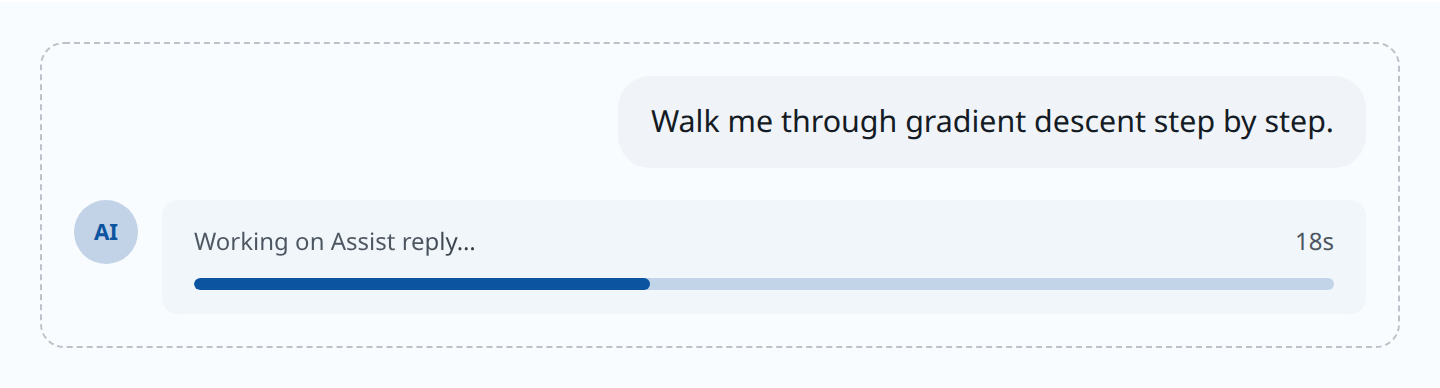
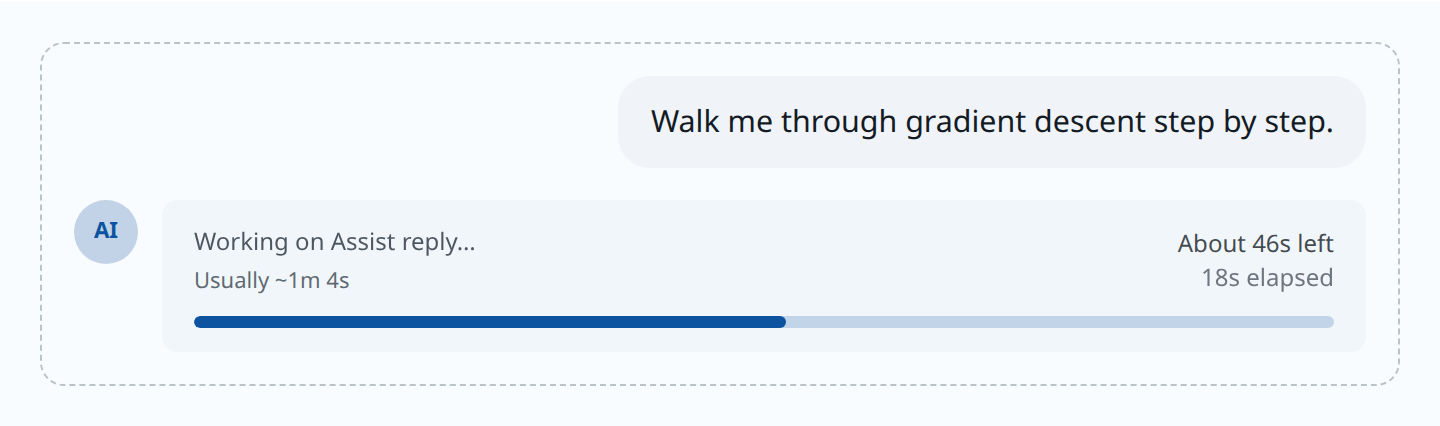
docs(ux): refresh #1171 gallery for timed progress bar
Update QA HTML/screenshots to show expected-duration fill,
“About Xs left”, and longer-than-usual states for ADHD predictability.

diff --git a/docs/ux/chat-progress-1171/qa-gallery.html b/docs/ux/chat-progress-1171/qa-gallery.html
@@ -134,6 +134,9 @@
       justify-content: space-between;
       gap: 12px;
     }
+    .status-left {
+      min-width: 0;
+    }
     .shimmer {
       font-size: 0.75rem;
       font-weight: 500;
@@ -150,11 +153,26 @@
       color: transparent;
       animation: shimmer 4s infinite linear;
     }
-    .elapsed {
+    .expected {
+      margin: 4px 0 0;
+      font-size: 11px;
+      color: color-mix(in oklab, var(--muted-foreground) 90%, transparent);
+    }
+    .timing {
       flex-shrink: 0;
       font-size: 0.75rem;
       font-variant-numeric: tabular-nums;
       color: var(--muted-foreground);
+      text-align: right;
+    }
+    .timing-primary {
+      display: block;
+      font-weight: 500;
+      color: color-mix(in oklab, var(--foreground) 80%, transparent);
+    }
+    .timing-elapsed {
+      display: block;
+      opacity: 0.8;
     }
     .progress {
       position: relative;
@@ -166,12 +184,10 @@
       background: color-mix(in oklab, var(--primary) 20%, transparent);
     }
     .progress-bar {
-      position: absolute;
-      inset-block: 0;
-      width: 40%;
+      height: 100%;
       border-radius: 999px;
       background: var(--primary);
-      animation: pulse 1.4s ease-in-out infinite;
+      transition: width 0.35s ease-out;
     }
 
     /* Compact under streaming bubble */
@@ -207,10 +223,6 @@
     @keyframes shimmer {
       to { background-position: -200% center; }
     }
-    @keyframes pulse {
-      0%, 100% { opacity: 0.55; }
-      50% { opacity: 1; }
-    }
     @keyframes spin {
       to { transform: rotate(360deg); }
     }
@@ -227,7 +239,9 @@
   <h1>#1171 — Course chat loading / progress UI</h1>
   <p class="subtitle">
     Visual QA gallery matching Core’s <code>ChatTypingIndicator</code> +
-    <code>useChatProgress</code> stages. Full bubble before tokens; compact row
+    <code>useChatProgress</code>. The bar fills against an <em>expected</em>
+    wait for the model/Assist path (“About Xs left”, “Usually ~Ys”) so ADHD
+    users can see how close they are. Full bubble before tokens; compact row
     only for tools / post-tool follow-up; streaming tokens stay primary.
   </p>
 
@@ -235,18 +249,26 @@
     <!-- Individual capture roots used by Playwright -->
     <section class="panel">
       <p class="panel-title">01 · Pre-token — Routing</p>
-      <p class="panel-desc">First ~450ms before <code>X-Routed-Model</code> arrives.</p>
+      <p class="panel-desc">First ~450ms before <code>X-Routed-Model</code> arrives. Bar starts low with remaining estimate.</p>
       <div class="capture" id="cap-routing">
         <div class="chat-frame">
           <div class="user-row"><div class="user-bubble">Explain recursion with a small example.</div></div>
-          <div class="msg" data-chat-progress-stage="routing">
+          <div class="msg" data-chat-progress-stage="routing" data-chat-progress-percent="8">
             <div class="avatar">AI</div>
             <div class="status-card">
               <div class="status-row">
-                <div class="shimmer">Routing…</div>
-                <span class="elapsed">0s</span>
+                <div class="status-left">
+                  <div class="shimmer">Routing…</div>
+                  <p class="expected">Usually ~40s</p>
+                </div>
+                <span class="timing">
+                  <span class="timing-primary">About 40s left</span>
+                  <span class="timing-elapsed">0s elapsed</span>
+                </span>
               </div>
-              <div class="progress" role="progressbar" aria-valuetext="Routing…"><div class="progress-bar"></div></div>
+              <div class="progress" role="progressbar" aria-valuenow="8" aria-valuetext="Routing…. About 40s left. 0s elapsed.">
+                <div class="progress-bar" style="width: 8%"></div>
+              </div>
             </div>
           </div>
         </div>
@@ -255,18 +277,26 @@
 
     <section class="panel">
       <p class="panel-title">02 · Pre-token — Waiting for model</p>
-      <p class="panel-desc">Slow local / large model TTFT (e.g. Qwen 32B) before first tokens.</p>
+      <p class="panel-desc">Slow local / large model TTFT (e.g. Qwen 32B). Fill tracks elapsed vs expected (~40s).</p>
       <div class="capture" id="cap-waiting">
         <div class="chat-frame">
           <div class="user-row"><div class="user-bubble">Explain recursion with a small example.</div></div>
-          <div class="msg" data-chat-progress-stage="waiting_for_model">
+          <div class="msg" data-chat-progress-stage="waiting_for_model" data-chat-progress-percent="48">
             <div class="avatar">AI</div>
             <div class="status-card">
               <div class="status-row">
-                <div class="shimmer">Waiting for model…</div>
-                <span class="elapsed">12s</span>
+                <div class="status-left">
+                  <div class="shimmer">Waiting for model…</div>
+                  <p class="expected">Usually ~40s</p>
+                </div>
+                <span class="timing">
+                  <span class="timing-primary">About 28s left</span>
+                  <span class="timing-elapsed">12s elapsed</span>
+                </span>
               </div>
-              <div class="progress" role="progressbar" aria-valuetext="Waiting for model…"><div class="progress-bar"></div></div>
+              <div class="progress" role="progressbar" aria-valuenow="48" aria-valuetext="Waiting for model…. About 28s left. 12s elapsed.">
+                <div class="progress-bar" style="width: 48%"></div>
+              </div>
             </div>
           </div>
         </div>
@@ -275,19 +305,27 @@
 
     <section class="panel">
       <p class="panel-title">03 · Pre-token — Searching course materials</p>
-      <p class="panel-desc">RAG tool in progress (<code>getInformation</code>) before any assistant text.</p>
+      <p class="panel-desc">RAG tool in progress (<code>getInformation</code>). Expected wait includes tool overhead.</p>
       <div class="capture" id="cap-searching">
         <div class="chat-frame">
           <div class="user-row"><div class="user-bubble">What did chapter 3 say about stacks?</div></div>
           <div class="tool-card"><div class="spinner"></div> Searching course materials…</div>
-          <div class="msg" data-chat-progress-stage="searching_materials">
+          <div class="msg" data-chat-progress-stage="searching_materials" data-chat-progress-percent="38">
             <div class="avatar">AI</div>
             <div class="status-card">
               <div class="status-row">
-                <div class="shimmer">Searching course materials…</div>
-                <span class="elapsed">4s</span>
+                <div class="status-left">
+                  <div class="shimmer">Searching course materials…</div>
+                  <p class="expected">Usually ~28s</p>
+                </div>
+                <span class="timing">
+                  <span class="timing-primary">About 24s left</span>
+                  <span class="timing-elapsed">4s elapsed</span>
+                </span>
               </div>
-              <div class="progress" role="progressbar" aria-valuetext="Searching course materials…"><div class="progress-bar"></div></div>
+              <div class="progress" role="progressbar" aria-valuenow="38" aria-valuetext="Searching course materials…. About 24s left. 4s elapsed.">
+                <div class="progress-bar" style="width: 38%"></div>
+              </div>
             </div>
           </div>
         </div>
@@ -296,18 +334,26 @@
 
     <section class="panel">
       <p class="panel-title">04 · Pre-token — Working on Assist reply</p>
-      <p class="panel-desc">Assist ON after 6s of silence (slow TTFT and/or oversight buffering).</p>
+      <p class="panel-desc">Assist ON (longer expected wait). Mid-fill with remaining time for ADHD predictability.</p>
       <div class="capture" id="cap-assist">
         <div class="chat-frame">
           <div class="user-row"><div class="user-bubble">Walk me through gradient descent step by step.</div></div>
-          <div class="msg" data-chat-progress-stage="preparing_assist">
+          <div class="msg" data-chat-progress-stage="preparing_assist" data-chat-progress-percent="52">
             <div class="avatar">AI</div>
             <div class="status-card">
               <div class="status-row">
-                <div class="shimmer">Working on Assist reply…</div>
-                <span class="elapsed">18s</span>
+                <div class="status-left">
+                  <div class="shimmer">Working on Assist reply…</div>
+                  <p class="expected">Usually ~1m 4s</p>
+                </div>
+                <span class="timing">
+                  <span class="timing-primary">About 46s left</span>
+                  <span class="timing-elapsed">18s elapsed</span>
+                </span>
               </div>
-              <div class="progress" role="progressbar" aria-valuetext="Working on Assist reply…"><div class="progress-bar"></div></div>
+              <div class="progress" role="progressbar" aria-valuenow="52" aria-valuetext="Working on Assist reply…. About 46s left. 18s elapsed.">
+                <div class="progress-bar" style="width: 52%"></div>
+              </div>
             </div>
           </div>
         </div>
@@ -330,7 +376,7 @@
 
     <section class="panel">
       <p class="panel-title">06 · Compact — Searching after text</p>
-      <p class="panel-desc">Multi-step: earlier tokens exist + in-progress RAG tool → compact Searching… under the bubble.</p>
+      <p class="panel-desc">Multi-step: earlier tokens + in-progress RAG → compact Searching… with remaining estimate.</p>
       <div class="capture" id="cap-compact-search">
         <div class="chat-frame">
           <div class="user-row"><div class="user-bubble">What did chapter 3 say about stacks?</div></div>
@@ -339,12 +385,17 @@
             <div class="assistant-text">Looking that up in your course materials…</div>
           </div>
           <div class="tool-card"><div class="spinner"></div> Searching course materials…</div>
-          <div class="compact" data-chat-progress-stage="searching_materials" data-chat-progress-compact="true">
+          <div class="compact" data-chat-progress-stage="searching_materials" data-chat-progress-compact="true" data-chat-progress-percent="55">
             <div class="status-row">
               <div class="shimmer">Searching course materials…</div>
-              <span class="elapsed">9s</span>
+              <span class="timing">
+                <span class="timing-primary">About 19s left</span>
+                <span class="timing-elapsed">9s elapsed</span>
+              </span>
             </div>
-            <div class="progress" role="progressbar" aria-valuetext="Searching course materials…"><div class="progress-bar"></div></div>
+            <div class="progress" role="progressbar" aria-valuenow="55" aria-valuetext="Searching course materials…. About 19s left. 9s elapsed.">
+              <div class="progress-bar" style="width: 55%"></div>
+            </div>
           </div>
         </div>
       </div>
@@ -352,7 +403,7 @@
 
     <section class="panel">
       <p class="panel-title">07 · Compact — Generating (post-tool follow-up)</p>
-      <p class="panel-desc">Tool finished; waiting for the next model tokens before status hides again.</p>
+      <p class="panel-desc">Tool finished; shorter remaining estimate while waiting for the next tokens.</p>
       <div class="capture" id="cap-compact-generating">
         <div class="chat-frame">
           <div class="user-row"><div class="user-bubble">What did chapter 3 say about stacks?</div></div>
@@ -360,12 +411,45 @@
             <div class="avatar">AI</div>
             <div class="assistant-text">Looking that up in your course materials…</div>
           </div>
-          <div class="compact" data-chat-progress-stage="generating" data-chat-progress-compact="true">
+          <div class="compact" data-chat-progress-stage="generating" data-chat-progress-compact="true" data-chat-progress-percent="72">
             <div class="status-row">
               <div class="shimmer">Generating…</div>
-              <span class="elapsed">11s</span>
+              <span class="timing">
+                <span class="timing-primary">About 4s left</span>
+                <span class="timing-elapsed">11s elapsed</span>
+              </span>
             </div>
-            <div class="progress" role="progressbar" aria-valuetext="Generating…"><div class="progress-bar"></div></div>
+            <div class="progress" role="progressbar" aria-valuenow="72" aria-valuetext="Generating…. About 4s left. 11s elapsed.">
+              <div class="progress-bar" style="width: 72%"></div>
+            </div>
+          </div>
+        </div>
+      </div>
+    </section>
+
+    <section class="panel">
+      <p class="panel-title">08 · Over estimate — Taking longer than usual</p>
+      <p class="panel-desc">Past the expected wait: bar crawls toward a soft cap (~96%) and copy switches so users know it’s still working.</p>
+      <div class="capture" id="cap-longer">
+        <div class="chat-frame">
+          <div class="user-row"><div class="user-bubble">Explain recursion with a small example.</div></div>
+          <div class="msg" data-chat-progress-stage="waiting_for_model" data-chat-progress-percent="91">
+            <div class="avatar">AI</div>
+            <div class="status-card">
+              <div class="status-row">
+                <div class="status-left">
+                  <div class="shimmer">Waiting for model…</div>
+                  <p class="expected">Usually ~40s</p>
+                </div>
+                <span class="timing">
+                  <span class="timing-primary">Taking longer than usual</span>
+                  <span class="timing-elapsed">48s elapsed</span>
+                </span>
+              </div>
+              <div class="progress" role="progressbar" aria-valuenow="91" aria-valuetext="Waiting for model…. Taking longer than usual. 48s elapsed.">
+                <div class="progress-bar" style="width: 91%"></div>
+              </div>
+            </div>
           </div>
         </div>
       </div>

diff --git a/docs/ux/chat-progress-1171/README.md b/docs/ux/chat-progress-1171/README.md
@@ -2,15 +2,18 @@
 
 Static gallery matching Core `ChatTypingIndicator` / `useChatProgress` stages for PR review.
 
+The progress bar fills against an **expected response duration** (model / Assist / tools), with “About Xs left”, “Usually ~Ys”, and “Taking longer than usual” when past the estimate — so ADHD users can see how close they are without a fake exact %.
+
 | File | State |
 |------|--------|
-| `01-routing.png` | Pre-token: Routing… |
-| `02-waiting-for-model.png` | Pre-token: Waiting for model… (slow TTFT) |
+| `01-routing.png` | Pre-token: Routing… + remaining estimate |
+| `02-waiting-for-model.png` | Pre-token: Waiting for model… (timed fill) |
 | `03-searching-materials.png` | Pre-token: Searching course materials… |
-| `04-working-on-assist-reply.png` | Pre-token: Working on Assist reply… |
+| `04-working-on-assist-reply.png` | Pre-token: Working on Assist reply… (longer estimate) |
 | `05-streaming-tokens-no-status.png` | Tokens streaming — status hidden |
 | `06-compact-searching-after-text.png` | Compact Searching… after earlier text |
 | `07-compact-generating-post-tool.png` | Compact Generating… post-tool follow-up |
+| `08-taking-longer-than-usual.png` | Past estimate — soft cap + longer-than-usual copy |
 | `00-gallery-overview.png` | Full gallery overview |
 | `qa-gallery.html` | Source HTML used to capture shots |
 
